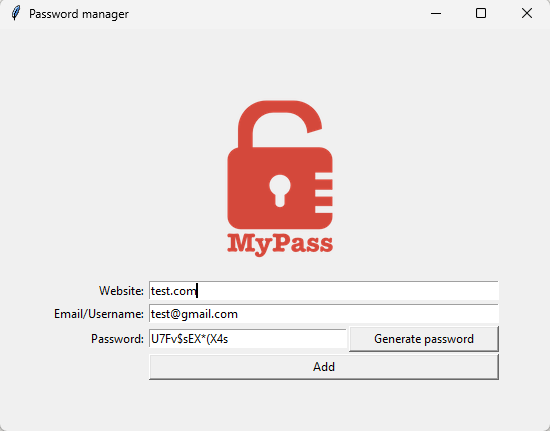
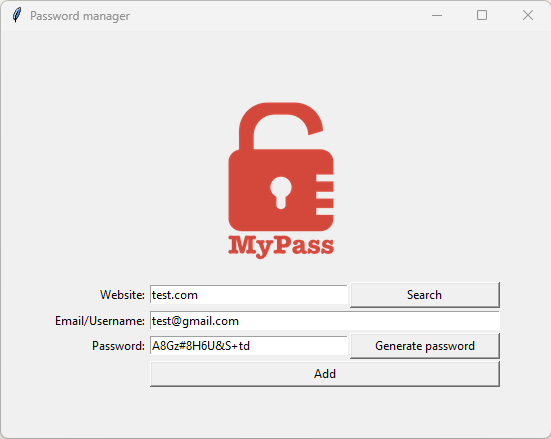
Day 30: added search functionality, migrated data storage from txt to json

diff --git a/day-29-password-manager/main.py b/day-29-password-manager/main.py
@@ -2,6 +2,7 @@ from tkinter import *
 from tkinter import messagebox
 import random
 import pyperclip
+import json
 
 COLUMN_0_WIDTH = 20
 COLUMN_1_WIDTH = 10
@@ -35,19 +36,54 @@ def add_password():
     website = website_input.get().strip()
     username = username_input.get().strip()
     password = password_input.get().strip()
+    new_data = {
+        website: {
+            "username": username,
+            "password": password,
+        }
+     }
     if website == "" or username == "" or password == "":
         messagebox.showwarning(title="Oops", message="Please fill all fields.")
     else:
-        is_ok = messagebox.askokcancel(title=website, message=f"These are the details entered for {website}: \n\nEmail: {username} \nPassword: {password} \n\nIs it OK to save?")
-        if is_ok:
-            with open("data.txt", "a") as data:
-                data.write(f"{website} | {username} | {password}\n")
-            # Reset fields
-            website_input.delete(0, END)
-            username_input.delete(0, END)
-            username_input.insert(0, STANDARD_USERNAME)
-            password_input.delete(0, END)
-            website_input.focus()
+        try: # If file already exists
+            with open("data.json", "r") as data_file:
+                # Reading old data
+                data = json.load(data_file)
+        except FileNotFoundError: # If file doesn't exit
+            data = new_data
+        else:
+            # updating old data with new data
+            data.update(new_data)
+        with open("data.json", "w") as data_file:
+            # Saving updated data
+            json.dump(data, data_file, indent=4)
+
+        # Reset fields
+        website_input.delete(0, END)
+        username_input.delete(0, END)
+        username_input.insert(0, STANDARD_USERNAME)
+        password_input.delete(0, END)
+        website_input.focus()
+
+# ---------------------------- FIND PASSWORD ------------------------------- #
+
+def find_password():
+    website = website_input.get().strip()
+    if website == "":
+        pass
+    else:
+        try:
+            with open("data.json", "r") as data_file:
+                data = json.load(data_file)
+        except FileNotFoundError:
+            messagebox.showerror(title=f"Error", message="No data file found")
+        else:
+            if website in data:
+                messagebox.showinfo(title=website,
+                                    message=f"username: {data[website]["username"]}\n"
+                                            f"password: {data[website]["password"]}")
+            else:
+                messagebox.showerror(title=f"Error", message="No details for the website exists.")
 
 
 # ---------------------------- UI SETUP ------------------------------- #
@@ -73,8 +109,8 @@ password_label = Label(text= "Password:", anchor="e")
 password_label.grid(column=0, row=3, **PADDING)
 
 # Inputs ------- #
-website_input = Entry(width=COLUMN_1_WIDTH + COLUMN_2_WIDTH)
-website_input.grid(column=1, row=1, columnspan=2, **PADDING)
+website_input = Entry(width=COLUMN_1_WIDTH)
+website_input.grid(column=1, row=1, **PADDING)
 website_input.focus()
 
 username_input = Entry(width=COLUMN_1_WIDTH + COLUMN_2_WIDTH)
@@ -90,5 +126,8 @@ generate_button.grid(column=2, row=3, **PADDING)
 
 add_button = Button(text="Add", width=COLUMN_1_WIDTH + COLUMN_2_WIDTH, command=add_password)
 add_button.grid(column=1, row=4, columnspan=2, **PADDING)
+
+search_button = Button(text="Search", width=COLUMN_2_WIDTH, command=find_password)
+search_button.grid(column=2, row=1, **PADDING)
 
 window.mainloop()

diff --git a/day-29-password-manager/README.md b/day-29-password-manager/README.md
@@ -4,4 +4,6 @@ A Tkinter desktop app that generates secure passwords and saves them to a local 
 
 The main new thing here was auto-filling entry fields with a default username or a randomly generated password, and clearing them after saving.
 
+**Day 30 update:** Added a search function to retrieve saved credentials by website. Data is now stored in JSON instead of plain text, and `try/except/else` is used to handle possible errors in the search functionality.
+
 ![Password Manager](screenshots/screenshot.png)
